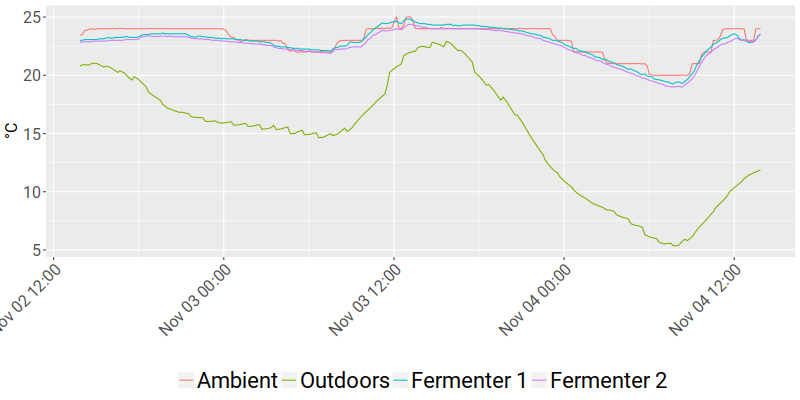
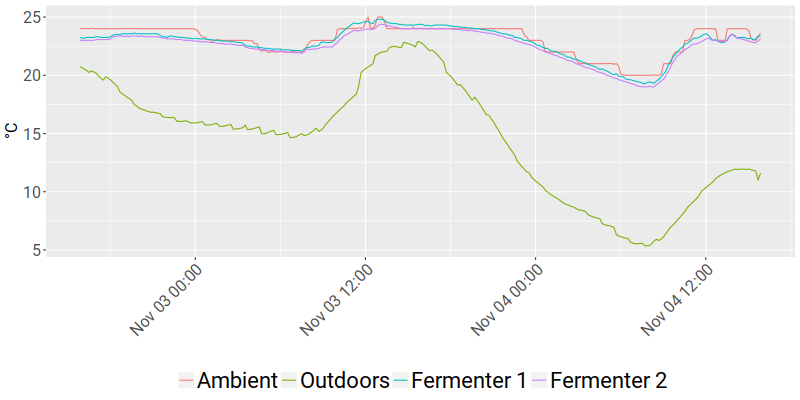
Update live temperature on site

diff --git a/temperature.js b/temperature.js
@@ -1,1 +1,1 @@
-document.write("<h4>Inside Temperature: 24.0°C</h4><h4>Outside Temperature: 11.86°C</h4><h4>Fermenter 1 Temperature: 23.5°C</h4><h4>Fermenter 2 Temperature: 23.56°C</h4><h4>Inside Humidity: 59.58%</h4><h4>Outside Humidity: 47.0%</h4><br>Last update: 2017-11-04 13:50:57");
+document.write("<h4>Inside Temperature: 23.64°C</h4><h4>Outside Temperature: 11.59°C</h4><h4>Fermenter 1 Temperature: 23.38°C</h4><h4>Fermenter 2 Temperature: 23.13°C</h4><h4>Inside Humidity: 61.41%</h4><h4>Outside Humidity: 51.0%</h4><br>Last update: 2017-11-04 15:51:33");
